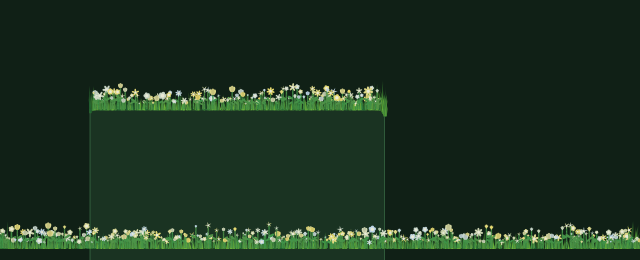
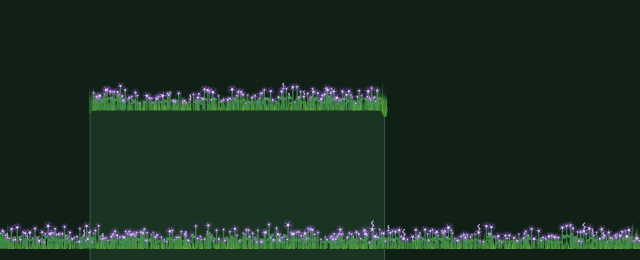
Electro lightning flowers (violet, Genshin-style); void goes dark indigo

Changed region(s): [[0.0, 0.8308, 1.0, 0.9538], [0.125, 0.3077, 0.5938, 0.4]]

diff --git a/crates/core/src/sim/flowers.rs b/crates/core/src/sim/flowers.rs
@@ -538,13 +538,13 @@ impl Bed {
             let sp = match self.element {
                 Element::Fire => Spark { x: hx + rng.range(-3.0, 3.0), y: hy - 2.0, vx: rng.range(-8.0, 8.0), vy: -rng.range(15.0, 35.0), life: rng.range(0.5, 1.0), col: Some([1.0, rng.range(0.4, 0.75), 0.1]), g: -4.0, size: rng.range(0.6, 1.0), twinkle: false },
                 Element::Ice => Spark { x: hx + rng.range(-7.0, 7.0), y: hy + rng.range(-7.0, 5.0), vx: rng.range(-4.0, 4.0), vy: rng.range(2.0, 10.0), life: rng.range(0.8, 1.5), col: Some([0.82, 0.96, 1.0]), g: 4.0, size: rng.range(0.7, 1.2), twinkle: true },
-                Element::Lightning => Spark { x: hx + rng.range(-6.0, 6.0), y: hy + rng.range(-6.0, 6.0), vx: rng.range(-70.0, 70.0), vy: rng.range(-70.0, 70.0), life: rng.range(0.12, 0.3), col: Some([1.0, 0.96, 0.55]), g: 0.0, size: rng.range(0.6, 1.0), twinkle: false },
+                Element::Lightning => Spark { x: hx + rng.range(-6.0, 6.0), y: hy + rng.range(-6.0, 6.0), vx: rng.range(-70.0, 70.0), vy: rng.range(-70.0, 70.0), life: rng.range(0.12, 0.3), col: Some([0.8, 0.55, 1.0]), g: 0.0, size: rng.range(0.6, 1.0), twinkle: false },
                 Element::Matter => Spark { x: hx + rng.range(-8.0, 8.0), y: hy + rng.range(-6.0, 6.0), vx: rng.range(-6.0, 6.0), vy: rng.range(-10.0, 4.0), life: rng.range(1.0, 1.8), col: Some([0.95, 0.75, 0.35]), g: 0.0, size: rng.range(0.7, 1.1), twinkle: false },
                 _ => {
                     // Void: motes appear around the flower and are drawn in toward it.
                     let a = rng.range(0.0, std::f32::consts::TAU);
                     let r = rng.range(14.0, 22.0);
-                    Spark { x: hx + a.cos() * r, y: hy + a.sin() * r, vx: -a.cos() * 26.0, vy: -a.sin() * 26.0, life: 0.55, col: Some([0.75, 0.25, 1.0]), g: 0.0, size: rng.range(0.8, 1.3), twinkle: false }
+                    Spark { x: hx + a.cos() * r, y: hy + a.sin() * r, vx: -a.cos() * 26.0, vy: -a.sin() * 26.0, life: 0.55, col: Some([0.45, 0.35, 0.95]), g: 0.0, size: rng.range(0.8, 1.3), twinkle: false }
                 }
             };
             born.push(sp);
@@ -626,8 +626,8 @@ fn element_colors(el: Element, t: f32, rng: &mut Rng) -> (Rgb, Rgb, Rgb) {
             let center = if rng.chance(0.7) { [1.0, 0.85, 0.25] } else { palette::mix(col, [1.0, 1.0, 1.0], 0.6) };
             (col, center, palette::mix(palette::STEM, [0.55, 0.85, 0.35], rng.f() * 0.7))
         }
-        // Pale yellows and blue-whites, otherwise an ordinary flower.
-        Element::Lightning => (palette::mix([1.0, 0.93, 0.45], [0.8, 0.9, 1.0], t), [1.0, 1.0, 0.92], palette::mix(palette::STEM, [0.45, 0.6, 0.3], rng.f() * 0.5)),
+        // Electro, as in Genshin Impact: electric violet to lilac petals around a white-lilac core.
+        Element::Lightning => (palette::mix([0.6, 0.32, 1.0], [0.8, 0.58, 1.0], t), [0.97, 0.92, 1.0], palette::mix(palette::STEM, [0.4, 0.55, 0.4], rng.f() * 0.5)),
         // Tulips from yellow through orange to red.
         Element::Fire => {
             let (yellow, orange, red) = ([1.0, 0.85, 0.2], [1.0, 0.5, 0.1], [0.86, 0.12, 0.08]);
@@ -636,8 +636,8 @@ fn element_colors(el: Element, t: f32, rng: &mut Rng) -> (Rgb, Rgb, Rgb) {
         }
         Element::Ice => (palette::mix([0.62, 0.88, 1.0], [0.95, 1.0, 1.0], t), [1.0, 1.0, 1.0], palette::mix([0.5, 0.72, 0.85], [0.75, 0.9, 0.95], rng.f())),
         Element::Matter => (palette::mix([0.82, 0.62, 0.24], [0.5, 0.42, 0.34], t), [0.22, 0.18, 0.13], palette::mix([0.35, 0.4, 0.18], [0.5, 0.45, 0.2], rng.f())),
-        // Deep violet petals with a very dark heart.
-        Element::Void => (palette::mix([0.26, 0.1, 0.46], [0.46, 0.2, 0.66], t), [0.05, 0.0, 0.1], palette::mix(palette::STEM, [0.3, 0.45, 0.35], rng.f() * 0.5)),
+        // Dark indigo petals with a very dark heart.
+        Element::Void => (palette::mix([0.1, 0.06, 0.3], [0.22, 0.12, 0.5], t), [0.02, 0.0, 0.06], palette::mix(palette::STEM, [0.3, 0.45, 0.35], rng.f() * 0.5)),
     }
 }
 
@@ -668,6 +668,9 @@ fn new_flower(x: f32, root: f32, rng: &mut Rng, replacing: Option<(u8, f32)>, el
     let (col, center, stem) = element_colors(element, hue, rng);
     if element == Element::Fire {
         kind = 1; // tulips
+    }
+    if element == Element::Lightning {
+        kind = 4; // pointed stars, like Electro crystals
     }
     // Each one is between 60% and 100% of full size.
     let scale = rng.range(0.6, 1.0);
@@ -803,6 +806,10 @@ impl Flower {
             self.element_head(b, hx, hy, s, el, t, glow);
             return;
         }
+        if el == Element::Lightning {
+            // A soft violet glow around the head.
+            b.disc(hx, hy, s * 1.5, [0.7, 0.4, 1.0, 0.13]);
+        }
         match self.kind {
             0 => {
                 for k in 0..self.petals {
@@ -835,6 +842,14 @@ impl Flower {
                     b.tri([hx + l.cos() * s * 0.45, hy + l.sin() * s * 0.45], [hx + r.cos() * s * 0.45, hy + r.sin() * s * 0.45], [hx + a.cos() * s * 1.25, hy + a.sin() * s * 1.25], c);
                 }
                 b.disc(hx, hy, s * 0.38, cc);
+                // Now and then a short, jagged arc of electricity flickers off the head.
+                if el == Element::Lightning && (t * 0.9 + self.phase * 5.0).sin() > 0.985 {
+                    let pts = [[hx, hy - s * 0.6], [hx + s * 0.45, hy - s * 1.2], [hx - s * 0.3, hy - s * 1.8], [hx + s * 0.35, hy - s * 2.5]];
+                    for w in pts.windows(2) {
+                        b.line(w[0], w[1], 1.3, [0.75, 0.5, 1.0, 0.7]);
+                        b.line(w[0], w[1], 0.6, [1.0, 0.97, 1.0, 0.95]);
+                    }
+                }
             }
         }
     }

diff --git a/crates/core/src/palette.rs b/crates/core/src/palette.rs
@@ -76,10 +76,10 @@ pub fn element_accent(e: crate::config::Element) -> Option<Rgb> {
     let c = |h: u32| [((h >> 16) & 255) as f32 / 255.0, ((h >> 8) & 255) as f32 / 255.0, (h & 255) as f32 / 255.0];
     match e {
         Natural => None,
-        Lightning => Some(c(0xf5e64a)),
+        Lightning => Some(c(0xc08bff)),
         Fire => Some(c(0xff7a2a)),
         Ice => Some(c(0x7fdcff)),
         Matter => Some(c(0xd9a441)),
-        Void => Some(c(0xb45cff)),
+        Void => Some(c(0x6f5de0)),
     }
 }
